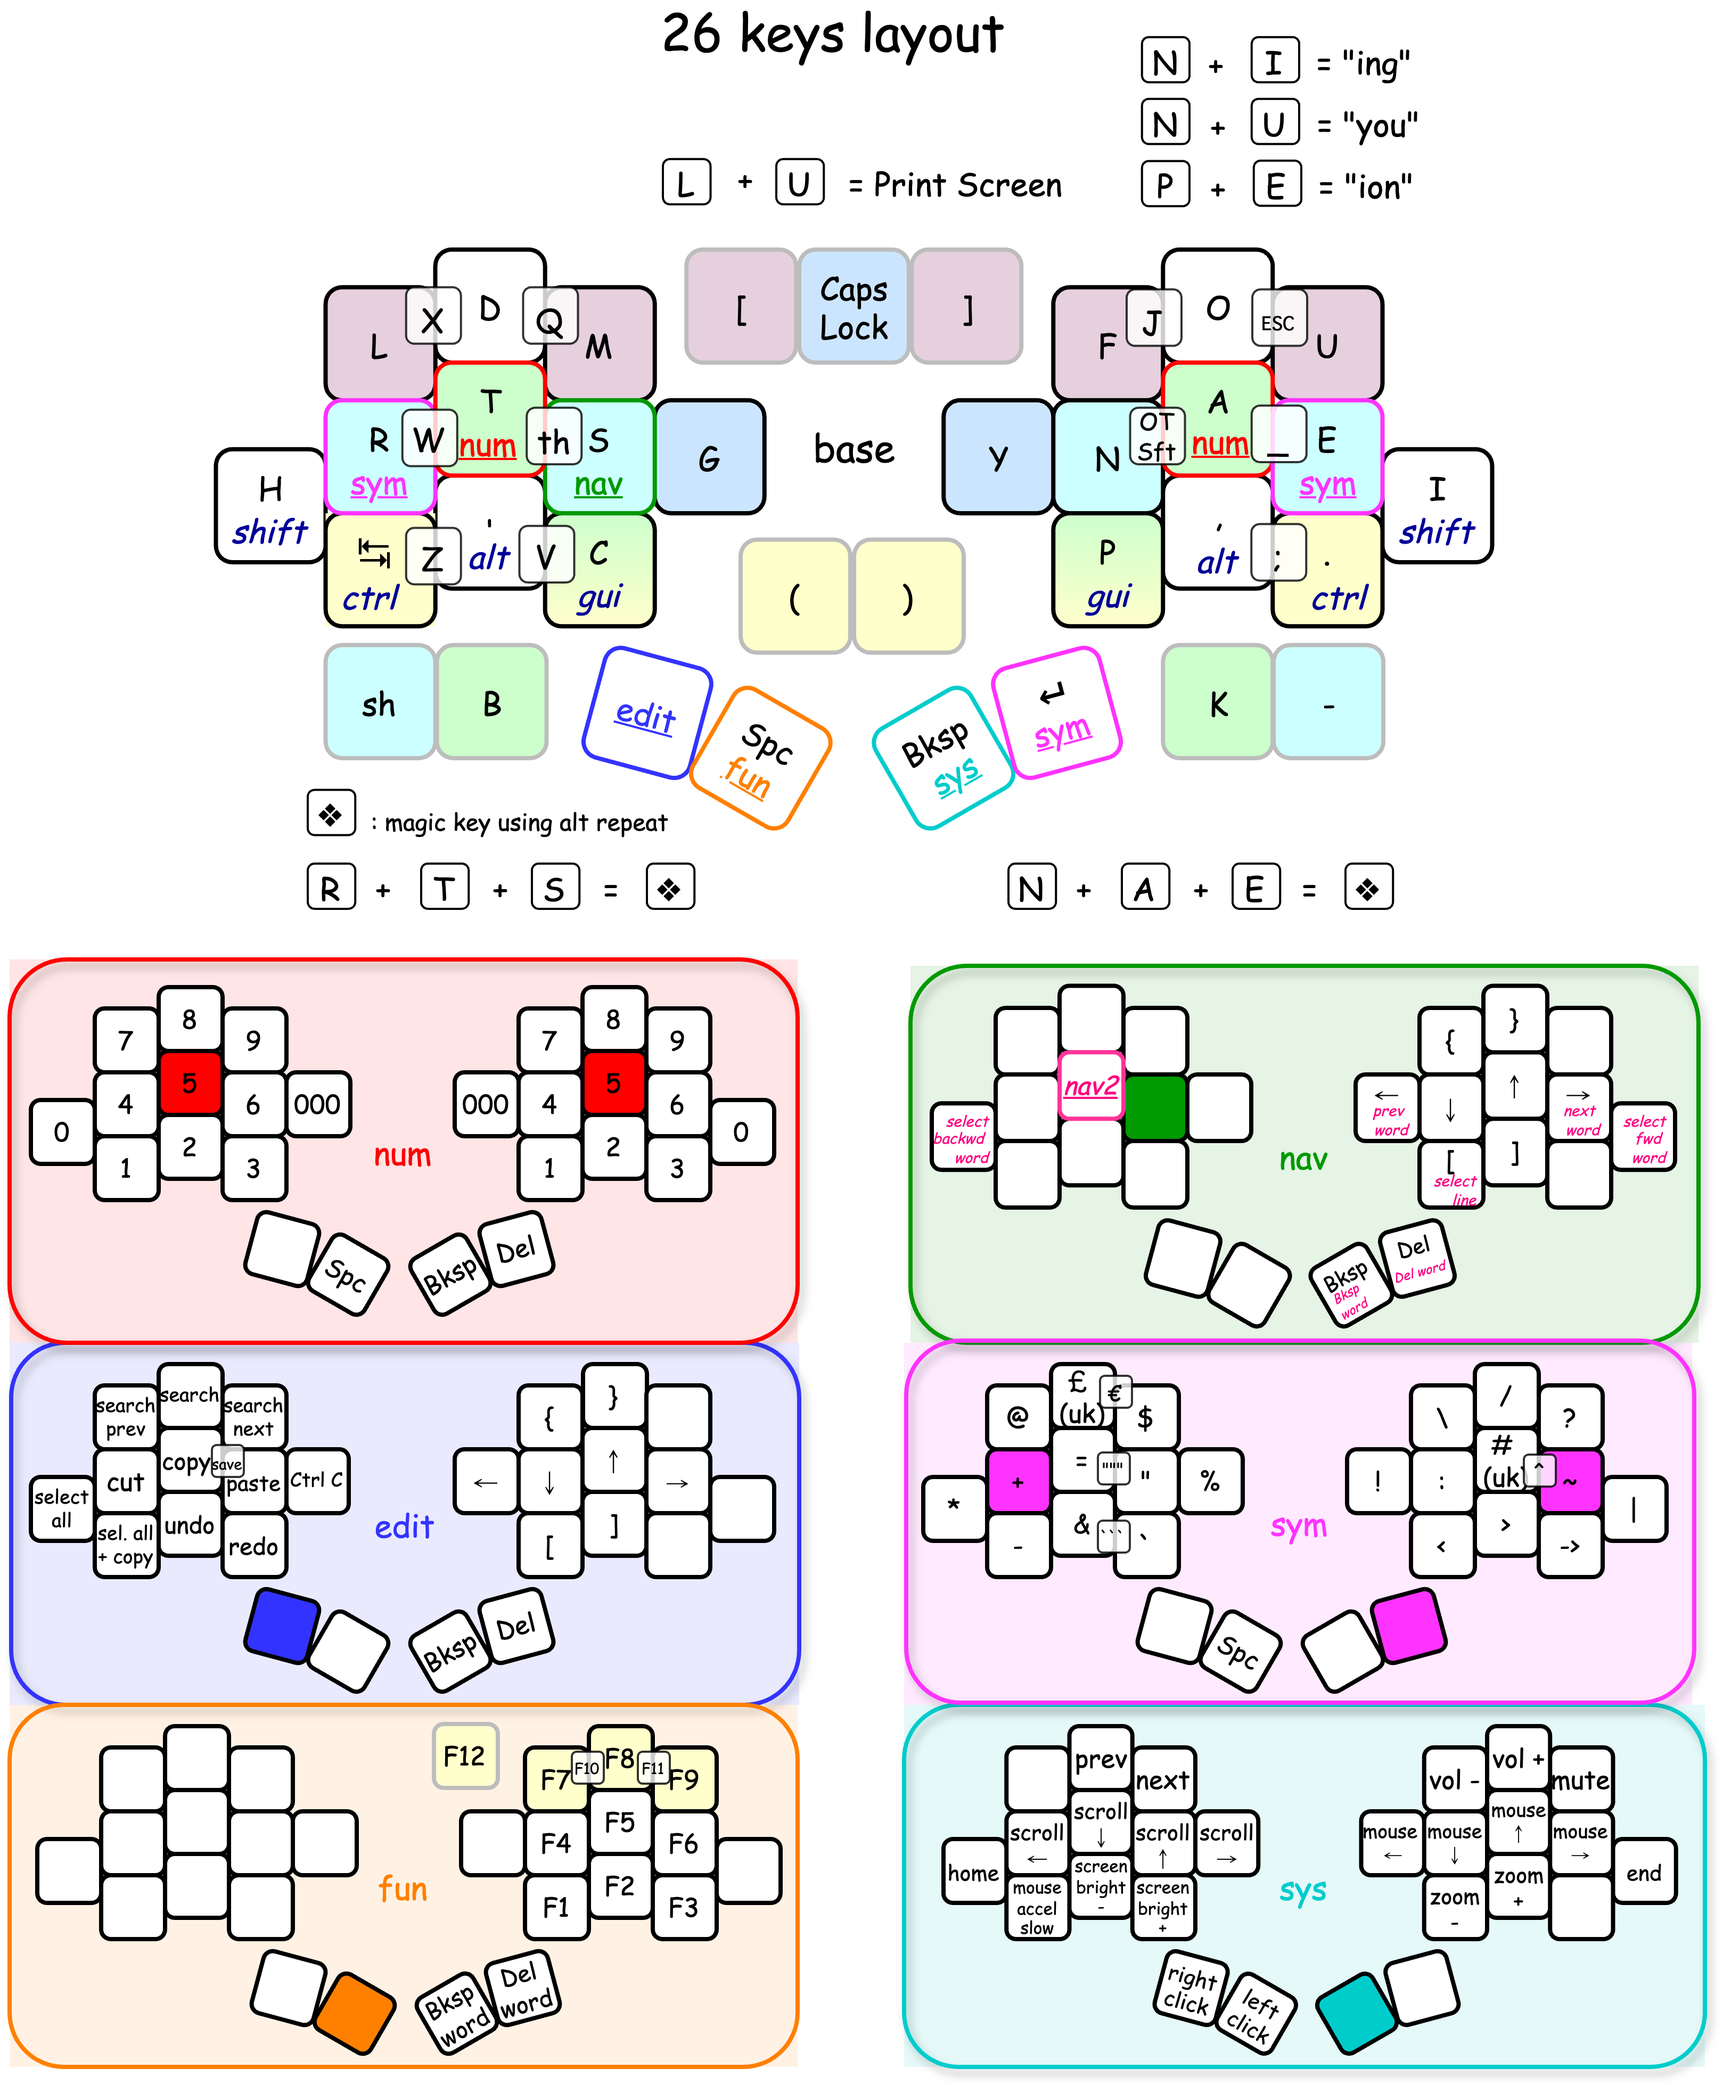
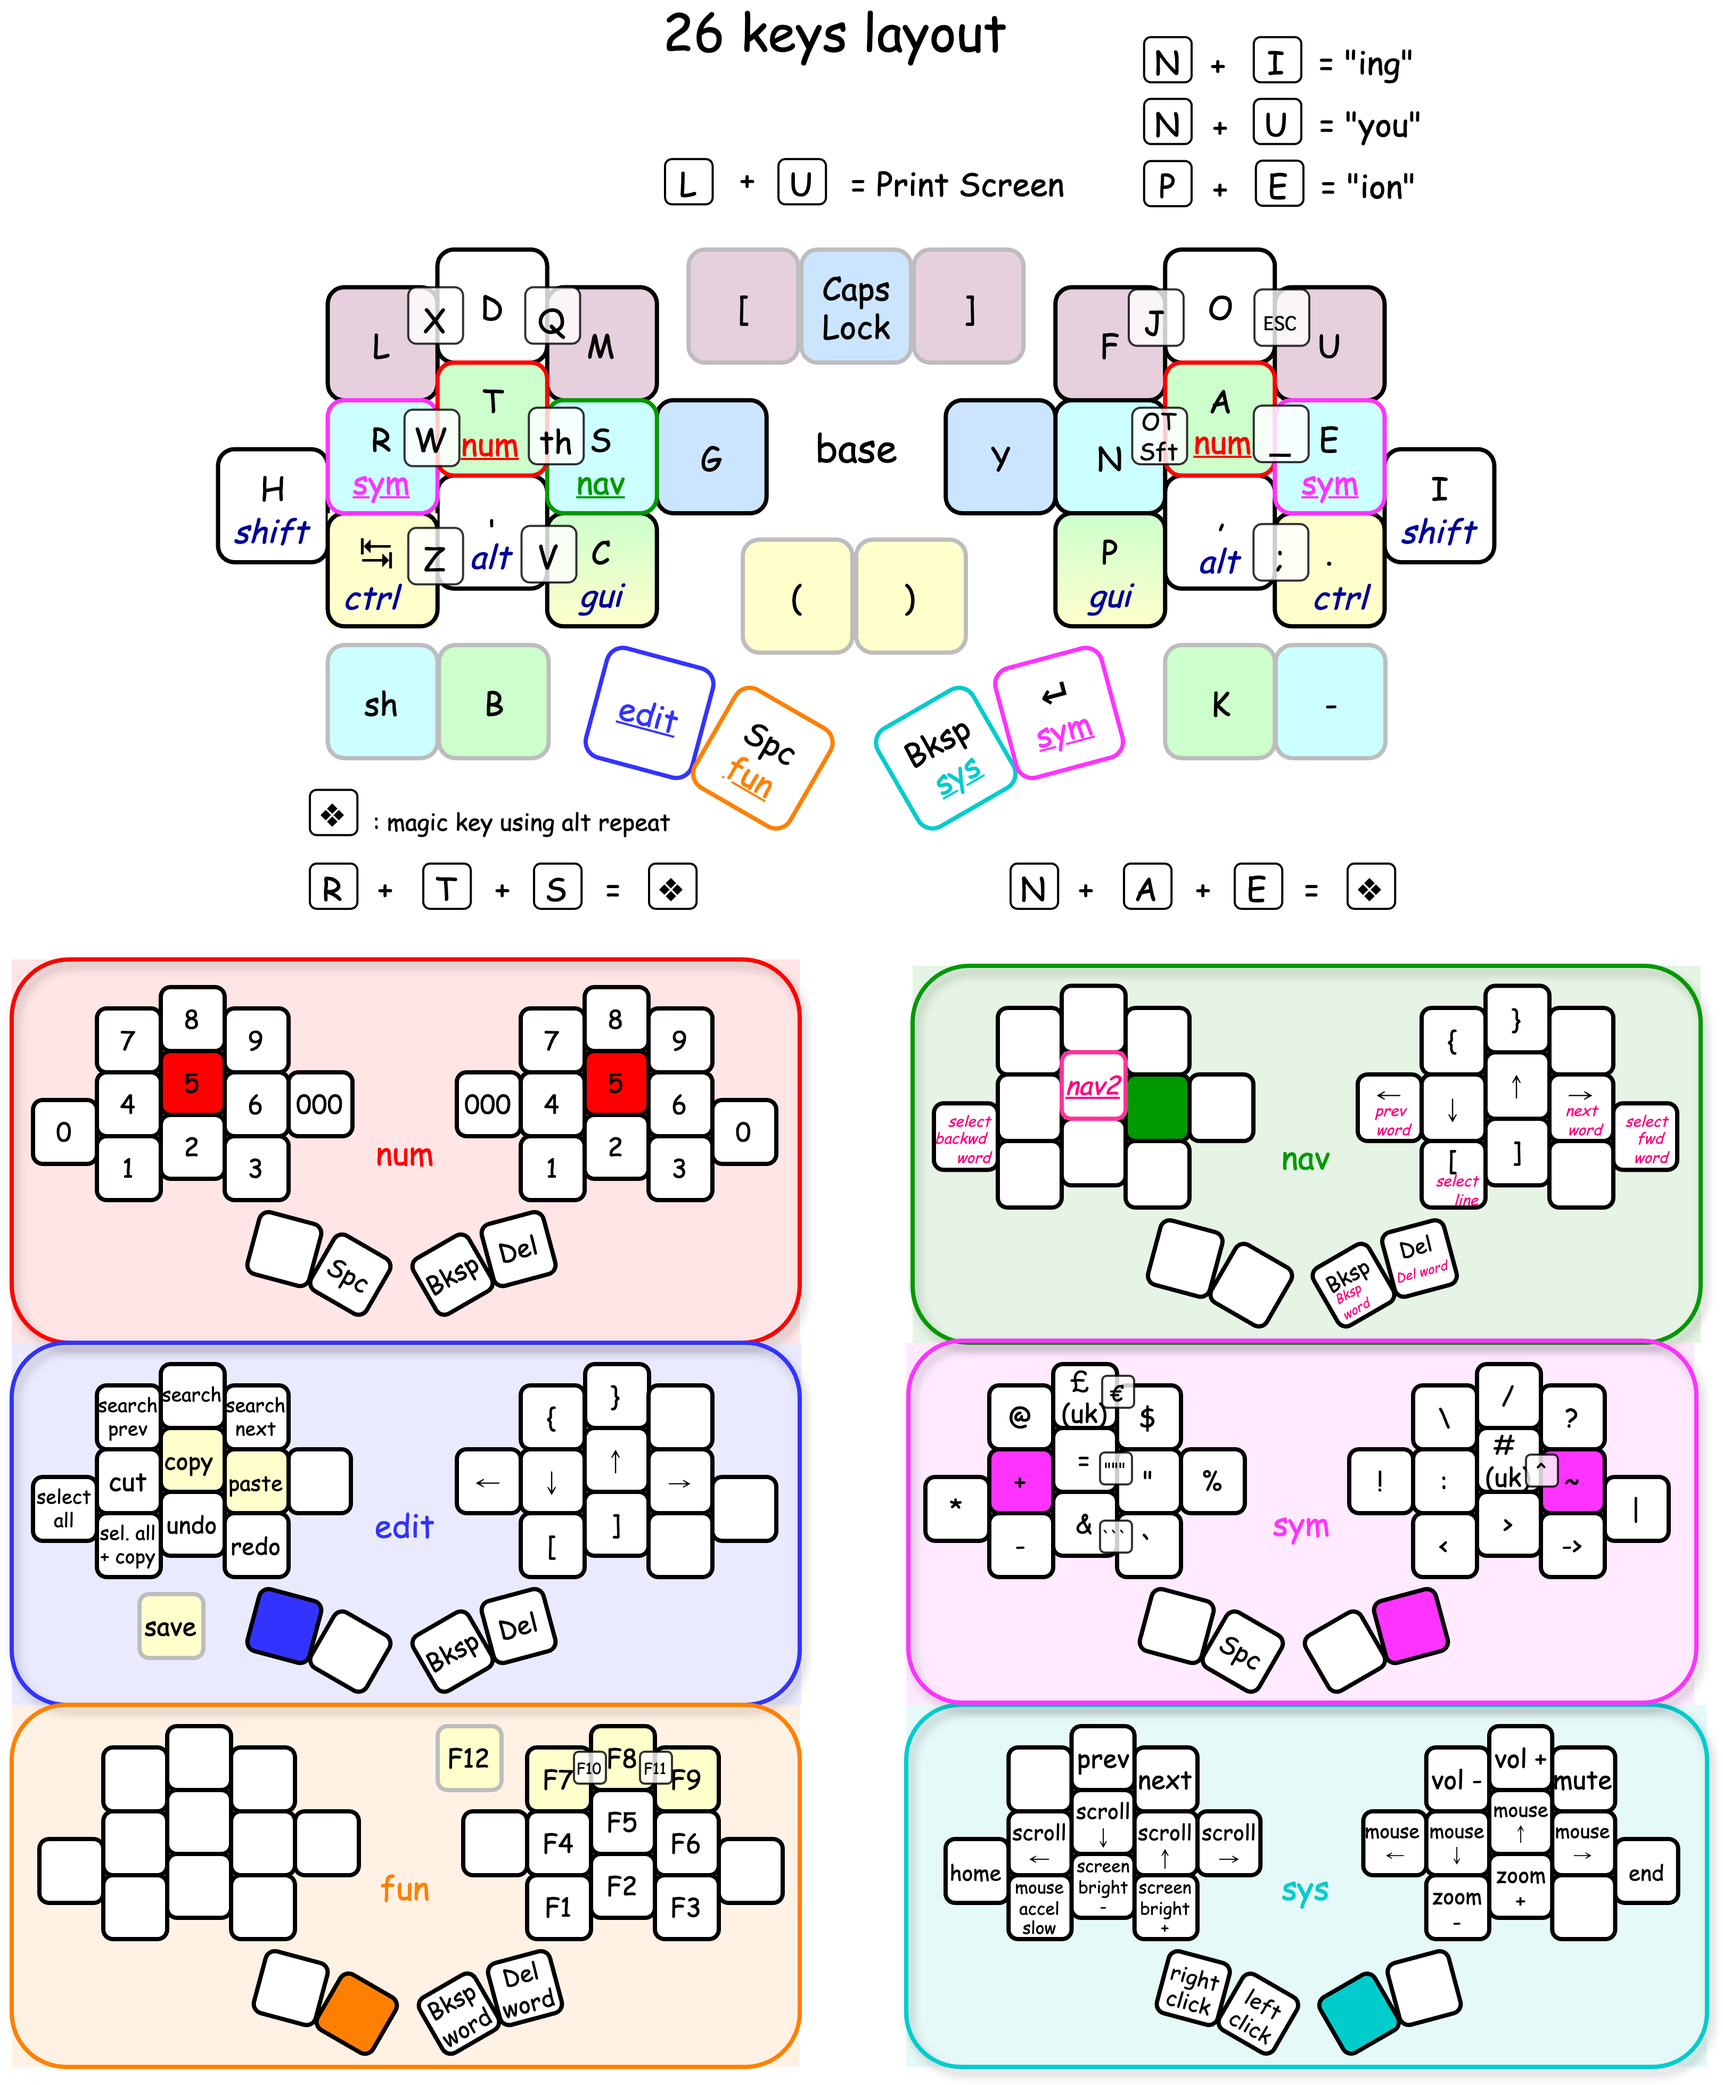
Remove redundant key

diff --git a/keyboards/smallcat/keymaps/default/keymap.c b/keyboards/smallcat/keymaps/default/keymap.c
@@ -125,7 +125,7 @@ enum custom_keycodes {
 // edit
 #define  ___EDIT_L1___  SGUI(KC_G),  G(KC_F),     G(KC_G)
 #define  ___EDIT_R1___  S(KC_LBRC),  S(KC_RBRC),  KC_TRNS
-#define  ___EDIT_L2___  G(KC_A),     G(KC_X),     G(KC_C),  G(KC_V),   C(KC_C)
+#define  ___EDIT_L2___  G(KC_A),     G(KC_X),     G(KC_C),  G(KC_V),   KC_TRNS
 #define  ___EDIT_R2___  KC_LEFT,     KC_DOWN,     KC_UP,    KC_RIGHT,  KC_TRNS
 #define  ___EDIT_L3___  KC_TRNS,     G(KC_Z),     G(KC_Z)
 #define  ___EDIT_R3___  KC_LBRC,     KC_RBRC,     KC_TRNS
